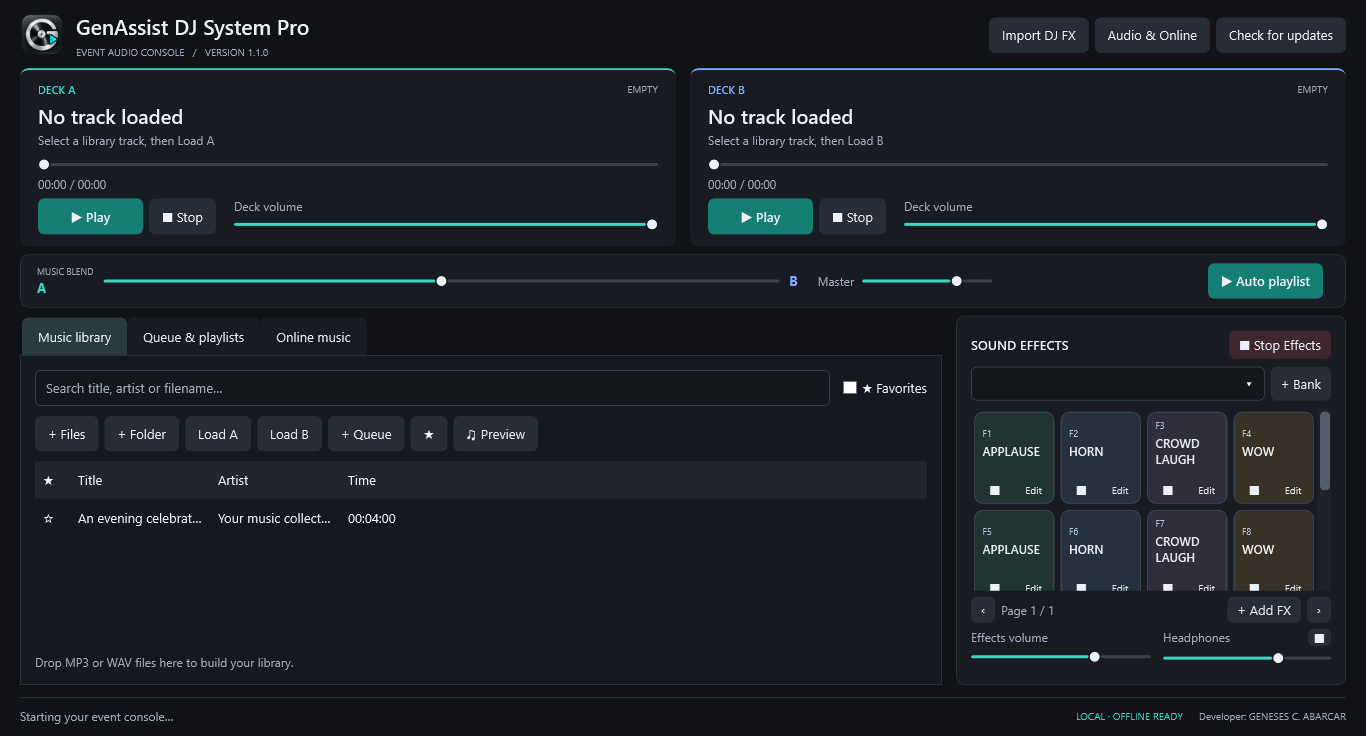
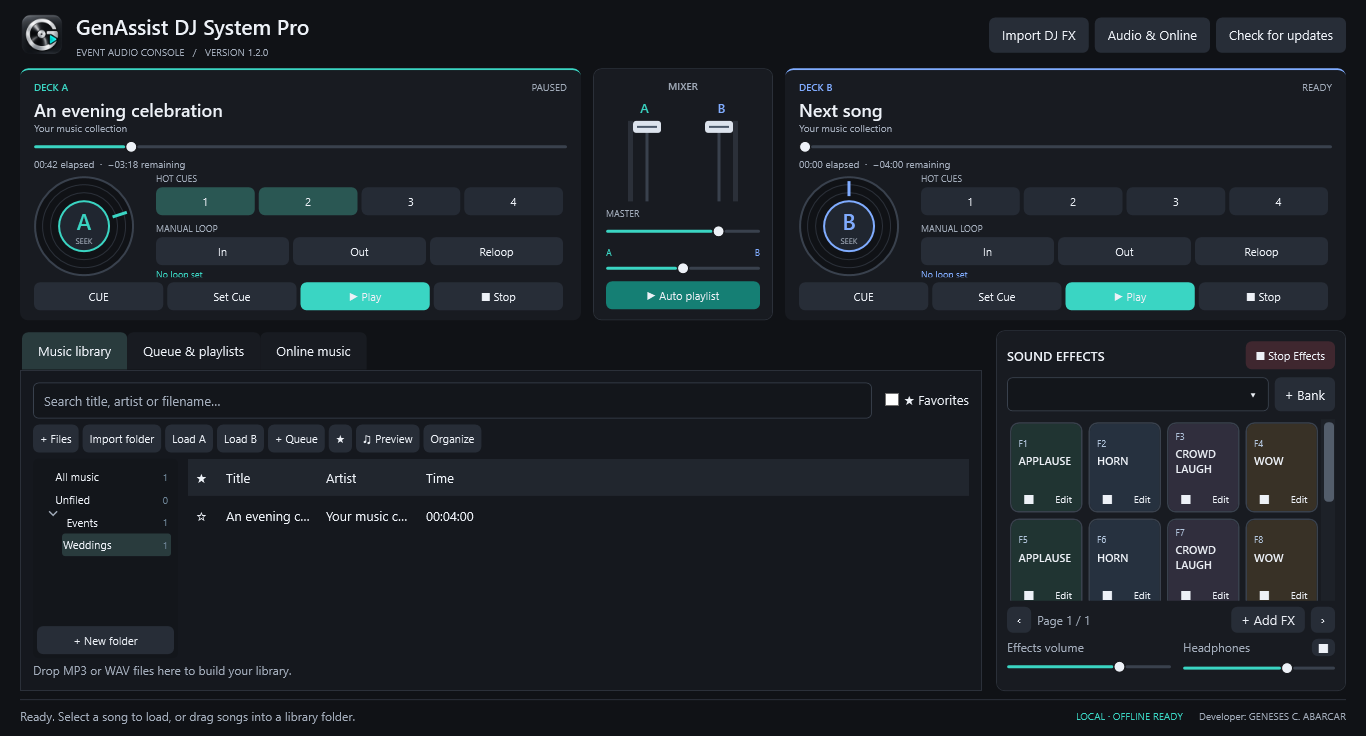
Document 1.2.0 DJ controls and virtual music folders

Changed region(s): [[0.0, 0.0938, 0.9839, 1.0], [0.7072, 0.4688, 0.7994, 0.5], [0.9531, 0.0938, 0.9839, 0.125]]

diff --git a/README.md b/README.md
@@ -12,13 +12,20 @@ A professional Windows event audio console with two music decks, sound-effect ba
 
 Get the Windows x64 ZIP from the [latest official release](https://github.com/EduFilesPH/genassist-dj-system-pro-releases/releases/latest).
 
-Version **1.1.3** fixes buzzing and distortion during live playback in both decks, effects and headphone preview. It includes in-app downloads, installation and restart. Existing effects do not need to be imported again.
+Version **1.2.0** adds DJ-style controls and virtual music-library folders. It retains the live-playback buzzing fix from 1.1.3 and supports in-app updates. Existing effects do not need to be imported again.
 
 1. Extract the entire ZIP to a folder.
 2. Open the extracted folder and double-click **GenAssist DJ System Pro.exe**. Keep the DLLs and runtime files alongside it.
-3. Import MP3/WAV songs with **+ Files** or **+ Folder**, load deck A or B, and play. Add your own effects to the sound-effect banks.
+3. Import MP3/WAV songs with **+ Files** or **Import folder**, load deck A or B, and play. Add your own effects to the sound-effect banks.
 
 The download includes its .NET runtime. Application data is stored in `%LOCALAPPDATA%\GenAssist\DJSystemPro`.
+
+
+## DJ controls and folders
+
+**Set Cue** saves the current position; **CUE** pauses and returns there. Click an empty **Hot Cue 1-4** to save a position, then click it again to jump and play. Shift-click clears it. Drag or scroll a jog wheel to seek; Shift gives finer movement. **In/Out** marks a manual loop; **Exit** continues forward and **Reloop** recalls it. These controls use manual positions without automatic beatmatching or vinyl scratching.
+
+Choose **All music**, then **+ New folder** to create a folder. Select a folder first to create a subfolder. Ctrl-click or Shift-click songs, then drag them into a folder or use **Organize -> Add to folder**. Right-click a folder to rename or remove it. Parent folders include songs from their subfolders; **Unfiled** shows songs outside all folders. Removing a folder or its song references keeps songs in All music and keeps audio files in place. Folders and cue points are saved after closing the app.
 
 ## Updates
 
@@ -28,9 +35,11 @@ Versions before **1.1.2** need one manual download to gain this feature: close t
 
 ## Features
 
-- Two independent decks with seek, volume and crossfader controls.
+- Two independent decks with jog seeking, Cue/Set Cue, four saved hot cues and manual Loop In/Out/Exit/Reloop.
 - Sound-effect pads with overlapping playback, per-pad stop and shortcuts.
+- Virtual music folders and subfolders with multi-song drag/drop and Organize menus. Audio files stay in their original locations.
 - Music library, favorites, queue and saved playlists.
+- Central mixer with vertical A/B channel faders, measured signal meters, master volume and crossfader.
 - Automatic playlist playback with adjustable fades.
 - Separate speaker and headphone output devices.
 - Optional Jamendo discovery and licensed downloads using your own client ID.
